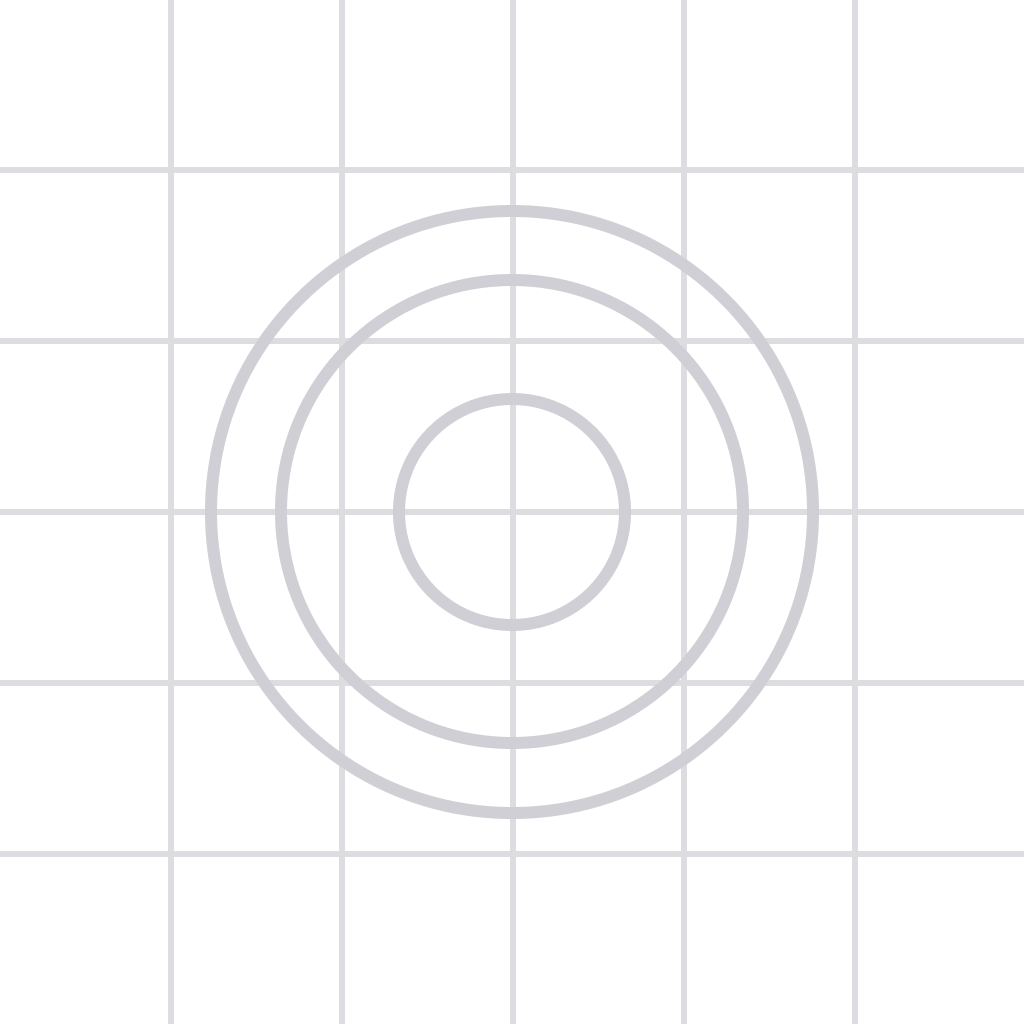
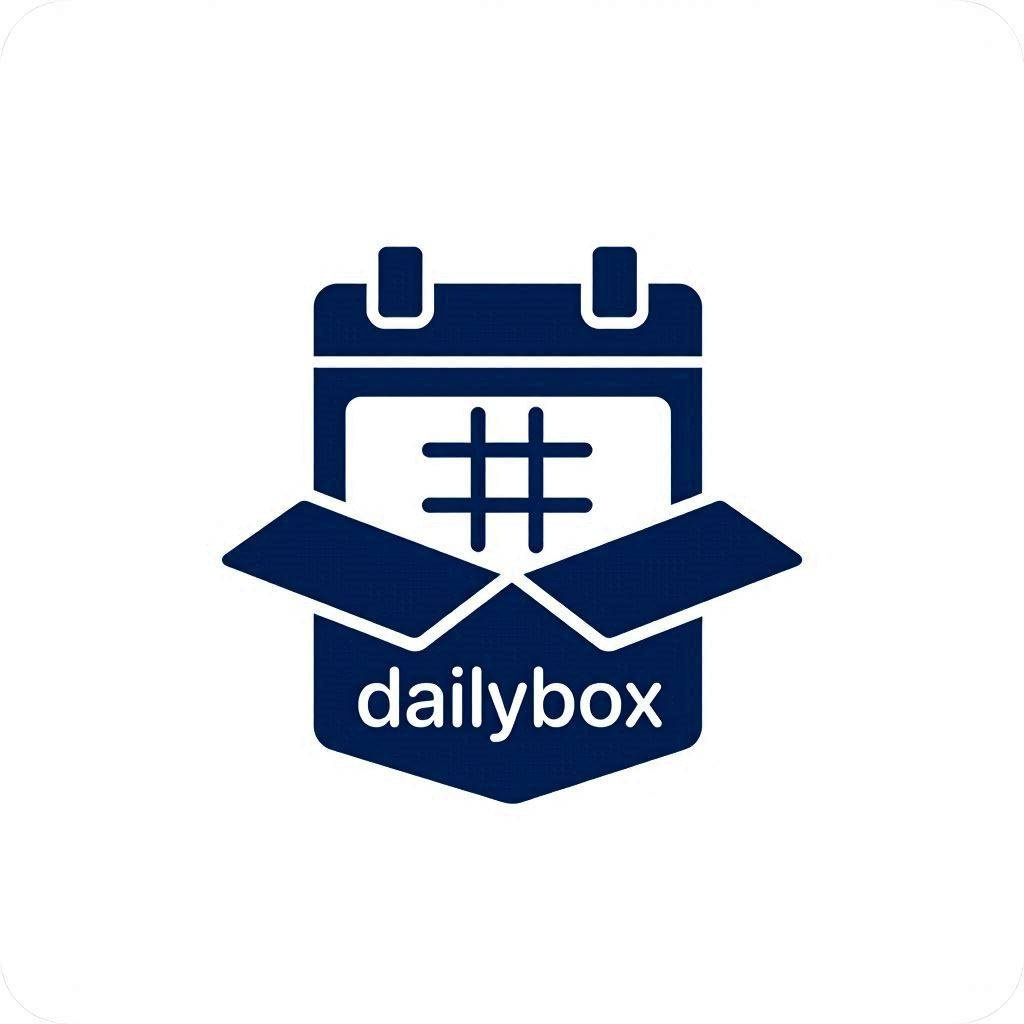
feat(auth): implement secure password reset workflow and ui enhancements
- Integrated KeyboardAwareScrollView inside the Profile password modal to prevent input occlusion.
- Implemented global state (Zustand) for 'pendingLoginCredentials' to securely bridge and auto-fill user data after a password reset logout.
- Added a dynamic password visibility toggle (eye icon) to the Login screen.
- Disabled 'autoCapitalize' on email and password inputs for better UX.
- Resolved expo-av native thread crashes by wrapping unloadAsync calls with error handling.

Changed region(s): [[0.0, 0.0, 1.0, 1.0]]

diff --git a/app.config.js b/app.config.js
@@ -37,25 +37,32 @@ module.exports = {
       [
         "expo-calendar",
         {
-          "calendarPermission": "The app needs to access your calendar."
+          "calendarPermission": "DailyBox needs to access your calendar to sync your reminders."
         }
       ],
       [
         "expo-av",
         {
-          "microphonePermission": "Uygulamanın ses kaydedebilmesi için mikrofona erişmesi gerekiyor."
+          "microphonePermission": "DailyBox needs microphone access to record voice notes for your boxes."
         }
       ],
       [
         "expo-location",
         {
-          "locationAlwaysAndWhenInUsePermission": "Uygulamanın haritada yerinizi gösterebilmesi için konumunuza erişmesi gerekiyor."
+          "locationAlwaysAndWhenInUsePermission": "DailyBox needs access to your location to attach locations to your boxes."
         }
       ],
       [
         "expo-local-authentication",
         {
-          "faceIDPermission": "Uygulamaya hızlı giriş için Face ID kullanmak istiyor."
+          "faceIDPermission": "DailyBox uses Face ID to securely unlock your private application."
+        }
+      ],
+      [
+        "expo-image-picker",
+        {
+          "photosPermission": "DailyBox needs access to your photo library to let you attach photos to your boxes.",
+          "cameraPermission": "DailyBox needs access to your camera to let you take and attach photos to your boxes."
         }
       ],
       [

diff --git a/app/box/[id].jsx b/app/box/[id].jsx
@@ -94,7 +94,7 @@ const BoxDetail = () => {
 
                 {/* Yıldız İkonu (Sağ üst köşeye sabitlendi) */}
                 <View style={{ position: "absolute", top: 5, right: 5 }}>
-                    <TouchableOpacity activeOpacity={0.7} onPress={() => console.log("Favori tıklandı")}>
+                    <TouchableOpacity activeOpacity={0.7} onPress={() => {}}>
                         {boxData.is_favorite || boxData.isFavorite ? (
                             <Ionicons name="star" size={24} color={theme.primary} /> // Favori rengi genelde altın/sarı olur
                         ) : (

diff --git a/app/chapter/[id].jsx b/app/chapter/[id].jsx
@@ -105,7 +105,7 @@ const ChapterDetail = () => {
 
                 {/* Yıldız İkonu (Sağ üst köşeye sabitlendi) */}
                 <View style={{ position: "absolute", top: 5, right: 5 }}>
-                    <TouchableOpacity activeOpacity={0.7} onPress={() => console.log("Favori tıklandı")}>
+                    <TouchableOpacity activeOpacity={0.7} onPress={() => {}}>
                         {chapterData.is_favorite || chapterData.isFavorite ? (
                             <Ionicons name="star" size={24} color={theme.primary} /> // Favori rengi genelde altın/sarı olur
                         ) : (